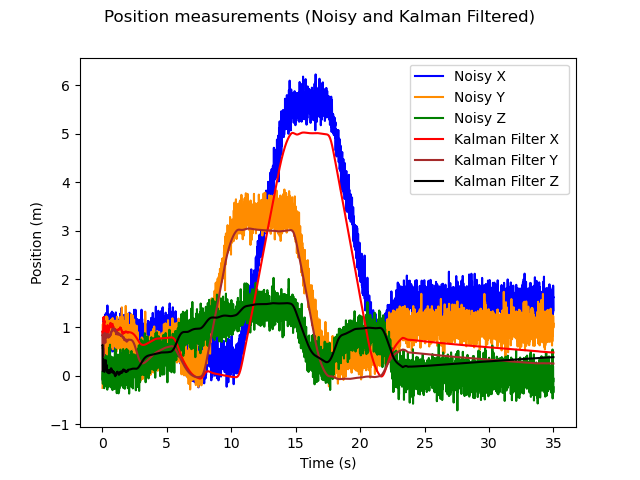
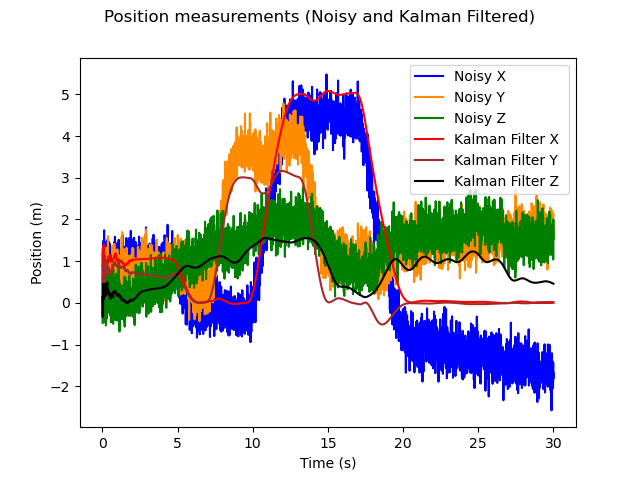
fix(Ex 2 doxs): Small gain-tuning and regeneration of Docs plots

diff --git a/controllers/main/exercises/ex1_pid_control.py b/controllers/main/exercises/ex1_pid_control.py
@@ -26,9 +26,9 @@ class quadrotor_controller():
             
             gains = {
                         "P_pos_z": 5.0,     "I_pos_z": 0.0,     "D_pos_z": 2.5,
-                        "P_pos_xy": 2.0,    "I_pos_xy": 0.0,    "D_pos_xy": 0.0,
+                        "P_pos_xy": 1.5,    "I_pos_xy": 0.0,    "D_pos_xy": 0.0,
                         "P_vel_z": 7.0,     "I_vel_z": 0.1,     "D_vel_z": 2.0,
-                        "P_vel_xy": 0.5,    "I_vel_xy": 0.0,    "D_vel_xy": 0.015,
+                        "P_vel_xy": 0.3,    "I_vel_xy": 0.0,    "D_vel_xy": 0.010,
                         "P_att_rp": 8.0,   "I_att_rp": 0.0,    "D_att_rp": 0.9,
                         "P_att_y": 2.0,     "I_att_y": 0.0,     "D_att_y": 1.0,
                         "P_rate_rp": 1.5,   "I_rate_rp":0.0,    "D_rate_rp": 0.15,
